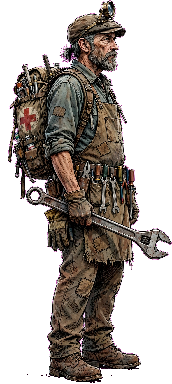
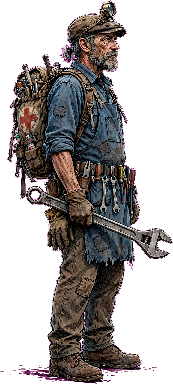
capture-only: signature-color-pass hunter paintings (Silas rust-orange, Josie teal, Doc steel-blue) on the hunters figure-swap

Changed region(s): [[0.0291, 0.0, 1.0, 1.0]]

diff --git a/src/harness/paintingData.ts b/src/harness/paintingData.ts
@@ -1,8 +1,8 @@
-// CAPTURE-ONLY (dash/hunters-fullset, never merged): figure-swap data
-// for the Cache Hunters FULL SET. Each painting is a generated painterly
-// illustration keyed with scripts/pixel-key.py at the canonical enemy
-// height (384) — the same production route as the shipped enemy/boss
-// sprites — NOT a hand-built texel grid.
+// CAPTURE-ONLY (dash/hunters-colorpass, never merged): figure-swap data
+// for the Cache Hunters SIGNATURE-COLOR PASS. Each painting is a generated
+// painterly illustration keyed with scripts/pixel-key.py at the canonical
+// enemy height (384) — the same production route as the shipped
+// enemy/boss sprites — NOT a hand-built texel grid.
 import vesperSrc from './assets/vesper-cole-probe.png';
 import vesperV1Src from './assets/vesper-v1-hat.png';
 import vesperV2Src from './assets/vesper-v2-hood-goggles.png';
@@ -24,7 +24,7 @@ export const PAINTINGS: Record<string, PaintingDef> = {
   vesperv1: { src: vesperV1Src, w: 218, h: 384, feetX: 0.4268 },
   vesperv2: { src: vesperV2Src, w: 219, h: 384, feetX: 0.4284 },
   vesperv3: { src: vesperV3Src, w: 212, h: 384, feetX: 0.4035 },
-  silas: { src: silasSrc, w: 192, h: 384, feetX: 0.4554 },
-  josie: { src: josieSrc, w: 191, h: 384, feetX: 0.3801 },
-  doc: { src: docSrc, w: 172, h: 384, feetX: 0.5002 },
+  silas: { src: silasSrc, w: 193, h: 384, feetX: 0.4556 },
+  josie: { src: josieSrc, w: 192, h: 384, feetX: 0.3798 },
+  doc: { src: docSrc, w: 173, h: 384, feetX: 0.4913 },
 };
